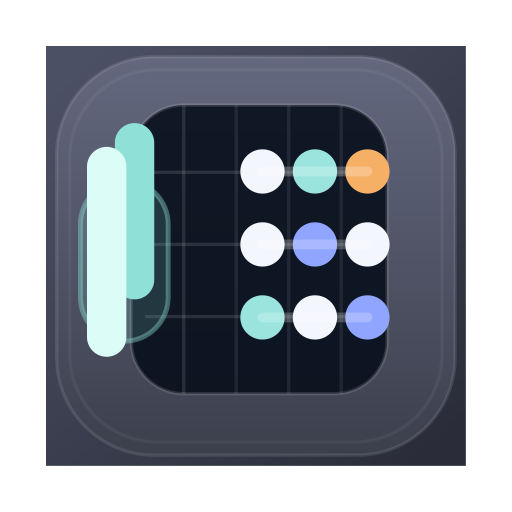
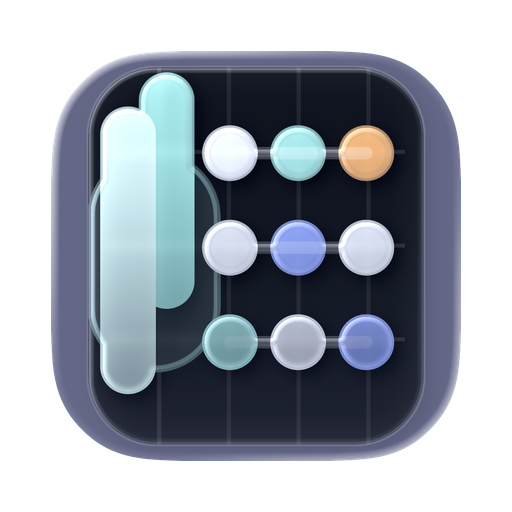
v1.2.6

diff --git a/pwa-assets.config.ts b/pwa-assets.config.ts
@@ -2,5 +2,5 @@ import { defineConfig, minimal2023Preset } from "@vite-pwa/assets-generator/conf
 
 export default defineConfig({
   preset: minimal2023Preset,
-  images: ["public/app-icon-source-512.png"],
+  images: ["design/icon-sources/v2.png"],
 });
